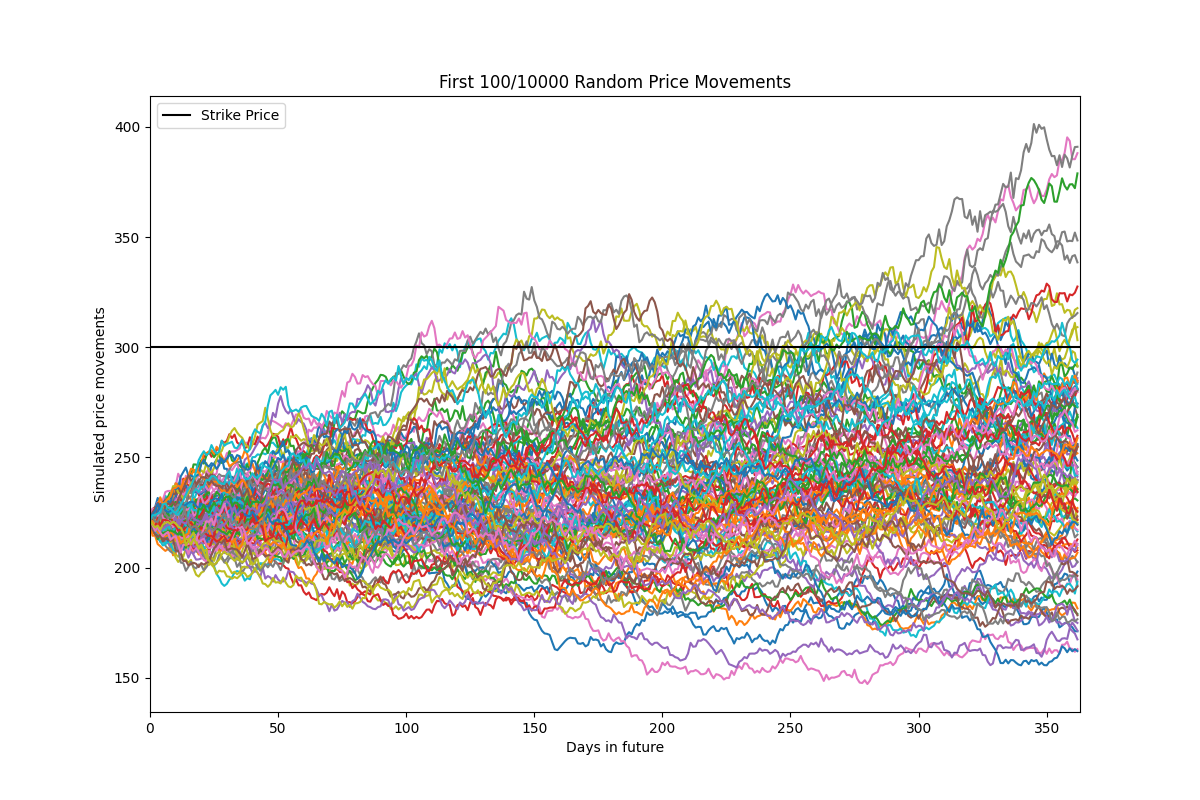
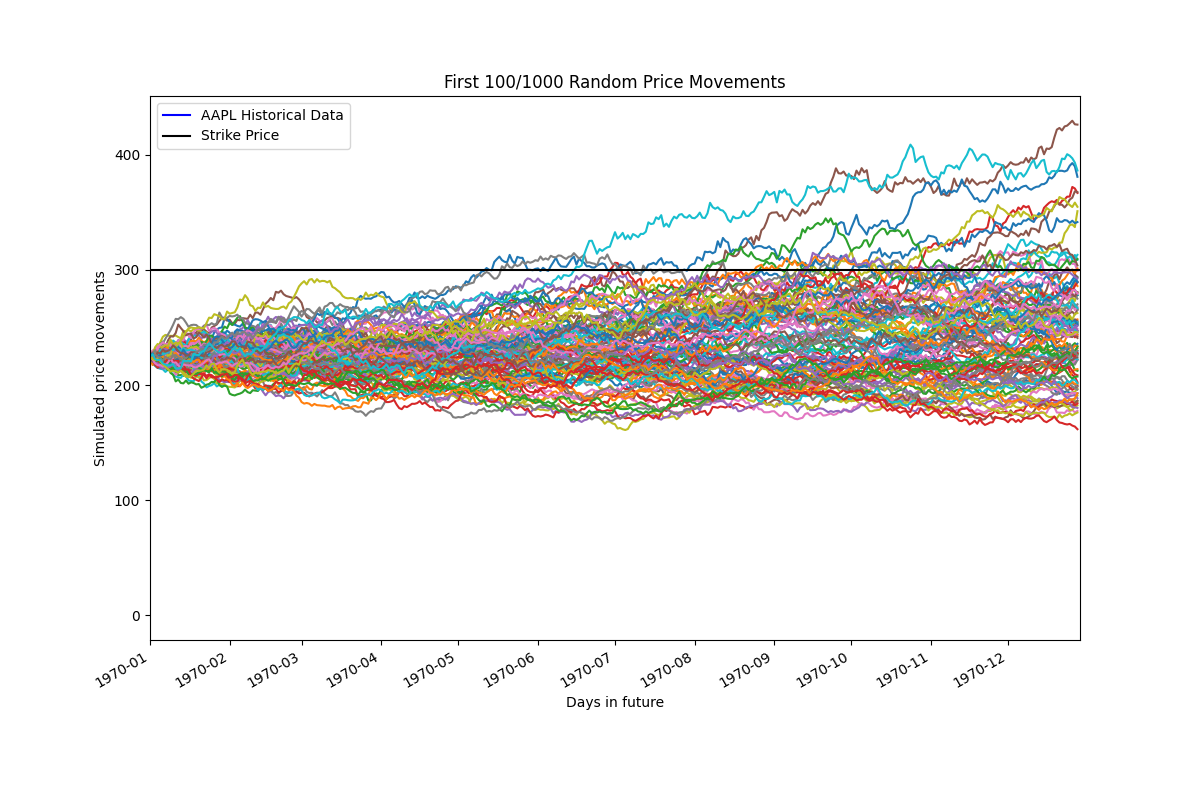
Added Monte Carlo and Black-Scholes models with historical data plotting

diff --git a/templates/monte_carlo_result.html b/templates/monte_carlo_result.html
@@ -12,7 +12,13 @@
         <li>Call Option Price: {{ call_option_price }}</li>
         <li>Put Option Price: {{ put_option_price }}</li>
     </ul>
-    <img src="{{ url_for('static', filename='monte_carlo_plot.png') }}" alt="Monte Carlo Simulation Plot">
+    
+    <h2>Monte Carlo Simulation Plot</h2>
+    <img src="{{ url_for('static', filename='monte_carlo_simulation_plot.png') }}" alt="Monte Carlo Simulation Plot">
+
+    <h2>Historical Data Plot</h2>
+    <img src="{{ url_for('static', filename='monte_carlo_historical_plot.png') }}" alt="Historical Data Plot">
+
     <br>
     <a href="{{ url_for('monte_carlo') }}">Go Back</a>
 </body>

diff --git a/templates/black_scholes_result.html b/templates/black_scholes_result.html
@@ -12,7 +12,7 @@
         <li>Call Option Price: {{ call_option_price }}</li>
         <li>Put Option Price: {{ put_option_price }}</li>
     </ul>
-
+    <img src="{{ url_for('static', filename='historical_data_plot.png') }}" alt="Historical Data Plot">
     <br>
     <a href="{{ url_for('black_scholes') }}">Go Back</a>
 </body>

diff --git a/app.py b/app.py
@@ -36,9 +36,9 @@ def black_scholes():
         call_option_price = BSM._calculate_call_option_price()
         put_option_price = BSM._calculate_put_option_price()
 
-        # Displaying call/put option price and plot
-        Ticker.plot_data(data, ticker, 'Adj Close')  # Save the plot image to be rendered on the result page
-        plot_file_path = 'static/plot.png'  # Assuming the plot is saved here
+        # Plotting historical data
+        plot_file_path = 'static/historical_data_plot.png'
+        Ticker.plot_data(data, ticker, 'Adj Close', save_path=plot_file_path)
 
         return render_template('black_scholes_result.html', 
                                call_option_price=call_option_price, 
@@ -47,7 +47,6 @@ def black_scholes():
 
     default_exercise_date = (datetime.now() + timedelta(days=365)).strftime('%Y-%m-%d')
     return render_template('black_scholes_form.html', default_exercise_date=default_exercise_date, datetime=datetime, timedelta=timedelta)
-
 
 
 @app.route('/monte_carlo', methods=['GET', 'POST'])
@@ -62,24 +61,10 @@ def monte_carlo():
         number_of_simulations = int(request.form['num_simulations'])
         num_of_movements = int(request.form['num_of_movements'])
 
-        # Debugging statements to check form inputs
-        print(f"ticker: {ticker}")
-        print(f"strike_price: {strike_price}")
-        print(f"risk_free_rate: {risk_free_rate}")
-        print(f"sigma: {sigma}")
-        print(f"exercise_date: {exercise_date}")
-        print(f"number_of_simulations: {number_of_simulations}")
-        print(f"num_of_movements: {num_of_movements}")
-
         # Get historical data for the ticker
         data = Ticker.get_historical_data(ticker)
-        print(f"Historical data for {ticker}: {data}")
         spot_price = Ticker.get_last_price(data, 'Adj Close')
         days_to_maturity = (exercise_date.date() - datetime.now().date()).days
-
-        # Debugging statements to check processed values
-        print(f"spot_price: {spot_price}")
-        print(f"days_to_maturity: {days_to_maturity}")
 
         # Simulate and calculate option prices
         MC = MonteCarloPricing(spot_price, strike_price, days_to_maturity, risk_free_rate, sigma, number_of_simulations)
@@ -87,19 +72,18 @@ def monte_carlo():
         call_option_price = MC._calculate_call_option_price()
         put_option_price = MC._calculate_put_option_price()
 
-        # Debugging statements to check calculated prices
-        print(f"call_option_price: {call_option_price}")
-        print(f"put_option_price: {put_option_price}")
+        # Save plots to static folder
+        simulation_plot_file_path = os.path.join('static', 'monte_carlo_simulation_plot.png')
+        historical_plot_file_path = os.path.join('static', 'monte_carlo_historical_plot.png')
+        MC.plot_simulation_results(num_of_movements, simulation_plot_file_path, historical_plot_file_path, historical_data=data, ticker=ticker)
 
-        # Save plot to static folder
-        plot_file_path = os.path.join('static', 'monte_carlo_plot.png')
-        MC.plot_simulation_results(num_of_movements, plot_file_path)
-
-        return render_template('monte_carlo_result.html', call_option_price=call_option_price, put_option_price=put_option_price, plot_url=plot_file_path)
+        return render_template('monte_carlo_result.html', 
+                               call_option_price=call_option_price, 
+                               put_option_price=put_option_price, 
+                               simulation_plot_url=simulation_plot_file_path,
+                               historical_plot_url=historical_plot_file_path)
 
     return render_template('monte_carlo_form.html')
-
-
 
 
 @app.route('/binomial', methods=['GET', 'POST'])

diff --git a/models/MonteCarloPricing.py b/models/MonteCarloPricing.py
@@ -82,15 +82,37 @@ class MonteCarloPricing(OptionPricingModel):
         return np.exp(-self.r * self.T) * 1 / self.N * np.sum(np.maximum(self.K - self.simulation_results_S[-1], 0))
        
 
-    def plot_simulation_results(self, num_of_movements, save_path):
-        """Plots specified number of simulated price movements."""
-        plt.figure(figsize=(12,8))
-        plt.plot(self.simulation_results_S[:,0:num_of_movements])
+    def plot_simulation_results(self, num_of_movements, simulation_save_path, historical_data_save_path, historical_data=None, ticker=None):
+        """
+        Plots specified number of simulated price movements and saves them separately from historical data.
+
+        Params:
+        num_of_movements: Number of simulated price movements to plot
+        simulation_save_path: Path where the simulation plot image will be saved
+        historical_data_save_path: Path where the historical data plot image will be saved
+        historical_data: Historical data to be plotted (optional)
+        ticker: Ticker symbol to include in the plot title (optional)
+        """
+        # Plot the simulated price movements
+        plt.figure(figsize=(12, 8))
+        plt.plot(self.simulation_results_S[:, 0:num_of_movements])
         plt.axhline(self.K, c='k', xmin=0, xmax=self.num_of_steps, label='Strike Price')
         plt.xlim([0, self.num_of_steps])
         plt.ylabel('Simulated price movements')
         plt.xlabel('Days in future')
         plt.title(f'First {num_of_movements}/{self.N} Random Price Movements')
         plt.legend(loc='best')
-        plt.savefig(save_path)
-        plt.close()  # Close the figure after saving to avoid displaying it directly
+        plt.savefig(simulation_save_path)
+        plt.close()
+
+        # Plot the historical data separately if provided
+        if historical_data is not None and ticker is not None:
+            plt.figure(figsize=(12, 8))
+            historical_data['Adj Close'].plot(label=f'{ticker} Historical Data', color='blue')
+            plt.ylabel('Price')
+            plt.xlabel('Date')
+            plt.title(f'Historical Data for {ticker}')
+            plt.legend(loc='best')
+            plt.savefig(historical_data_save_path)
+            plt.close()
+

diff --git a/models/ticker.py b/models/ticker.py
@@ -66,24 +66,27 @@ class Ticker:
         return data[column_name].iloc[-1]
 
     @staticmethod
-    def plot_data(data, ticker, column_name):
+    def plot_data(data, ticker, column_name, save_path):
         """
-        Plots specified column values from dataframe.
-        
+        Plots specified column values from dataframe and saves the plot to the specified path.
+
         Params:
         data: dataframe representing fetched data
         column_name: name of the column in dataframe
+        save_path: path where the plot image will be saved
         """
         try:
-            if data is None or column_name not in data.columns:
-                print(f"Cannot plot data: Data or column {column_name} is invalid.")
+            if data is None:
                 return
+            plt.figure(figsize=(10, 6))
             data[column_name].plot()
             plt.ylabel(f'{column_name}')
             plt.xlabel('Date')
             plt.title(f'Historical data for {ticker} - {column_name}')
             plt.legend(loc='best')
-            plt.show()
+            plt.savefig(save_path)  # Save the plot instead of showing it
+            plt.close()  # Close the plot to free up memory
         except Exception as e:
-            print(f"Error plotting data: {e}")
+            print(e)
             return
+
